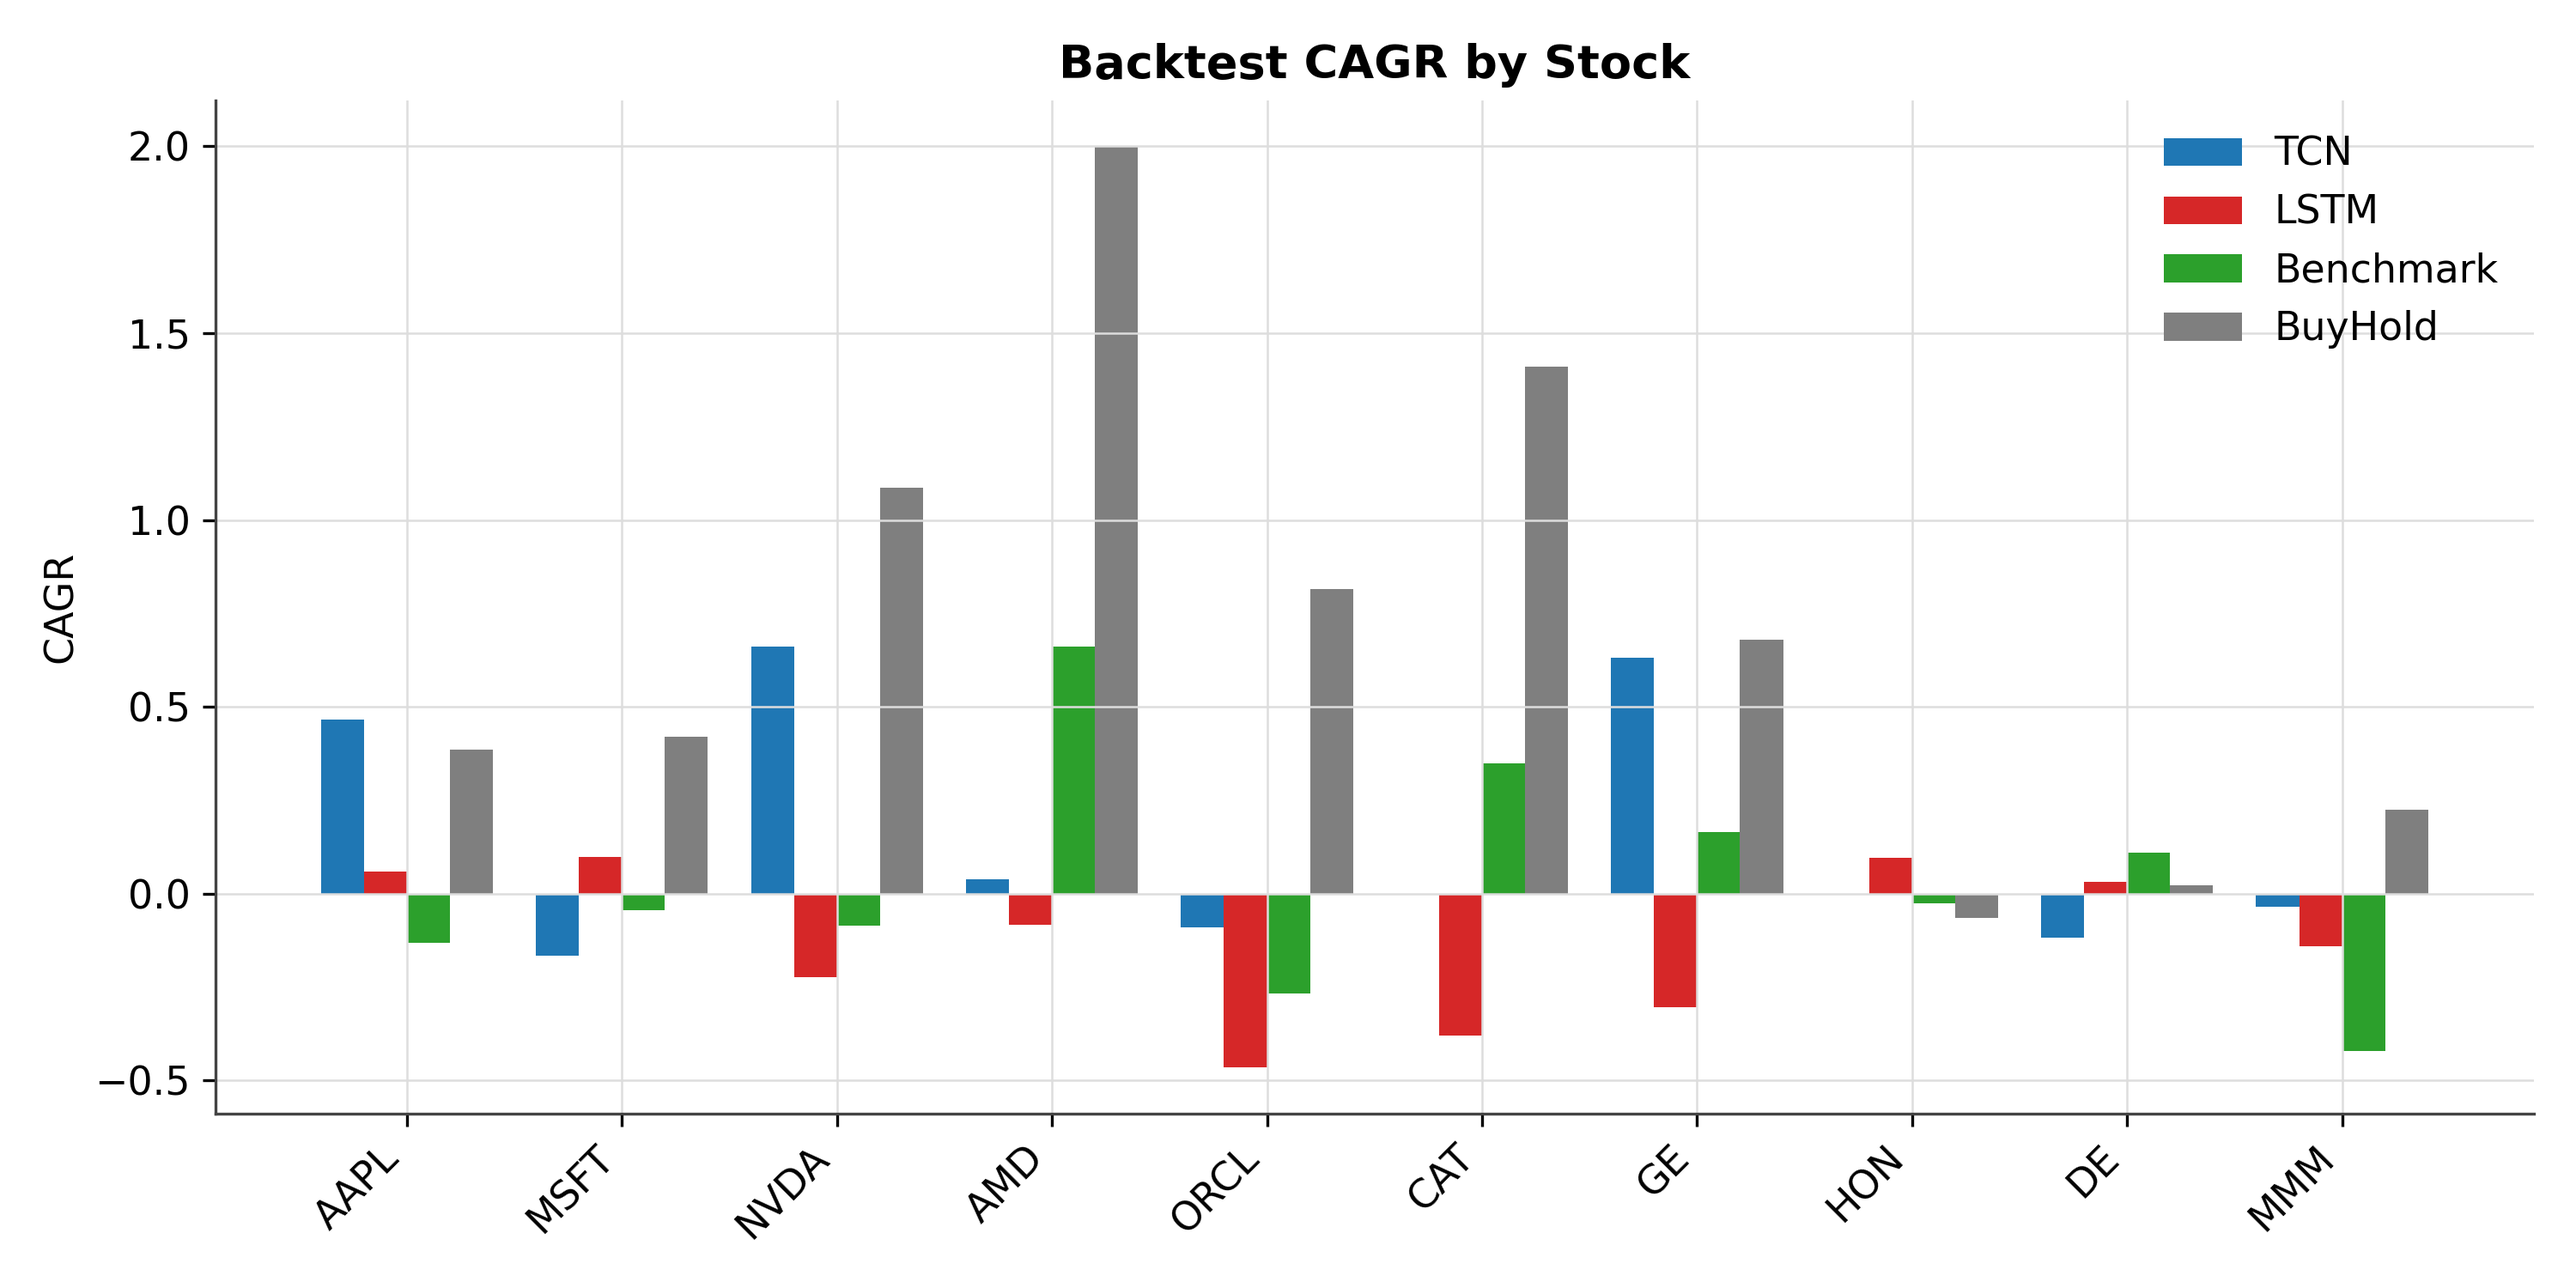
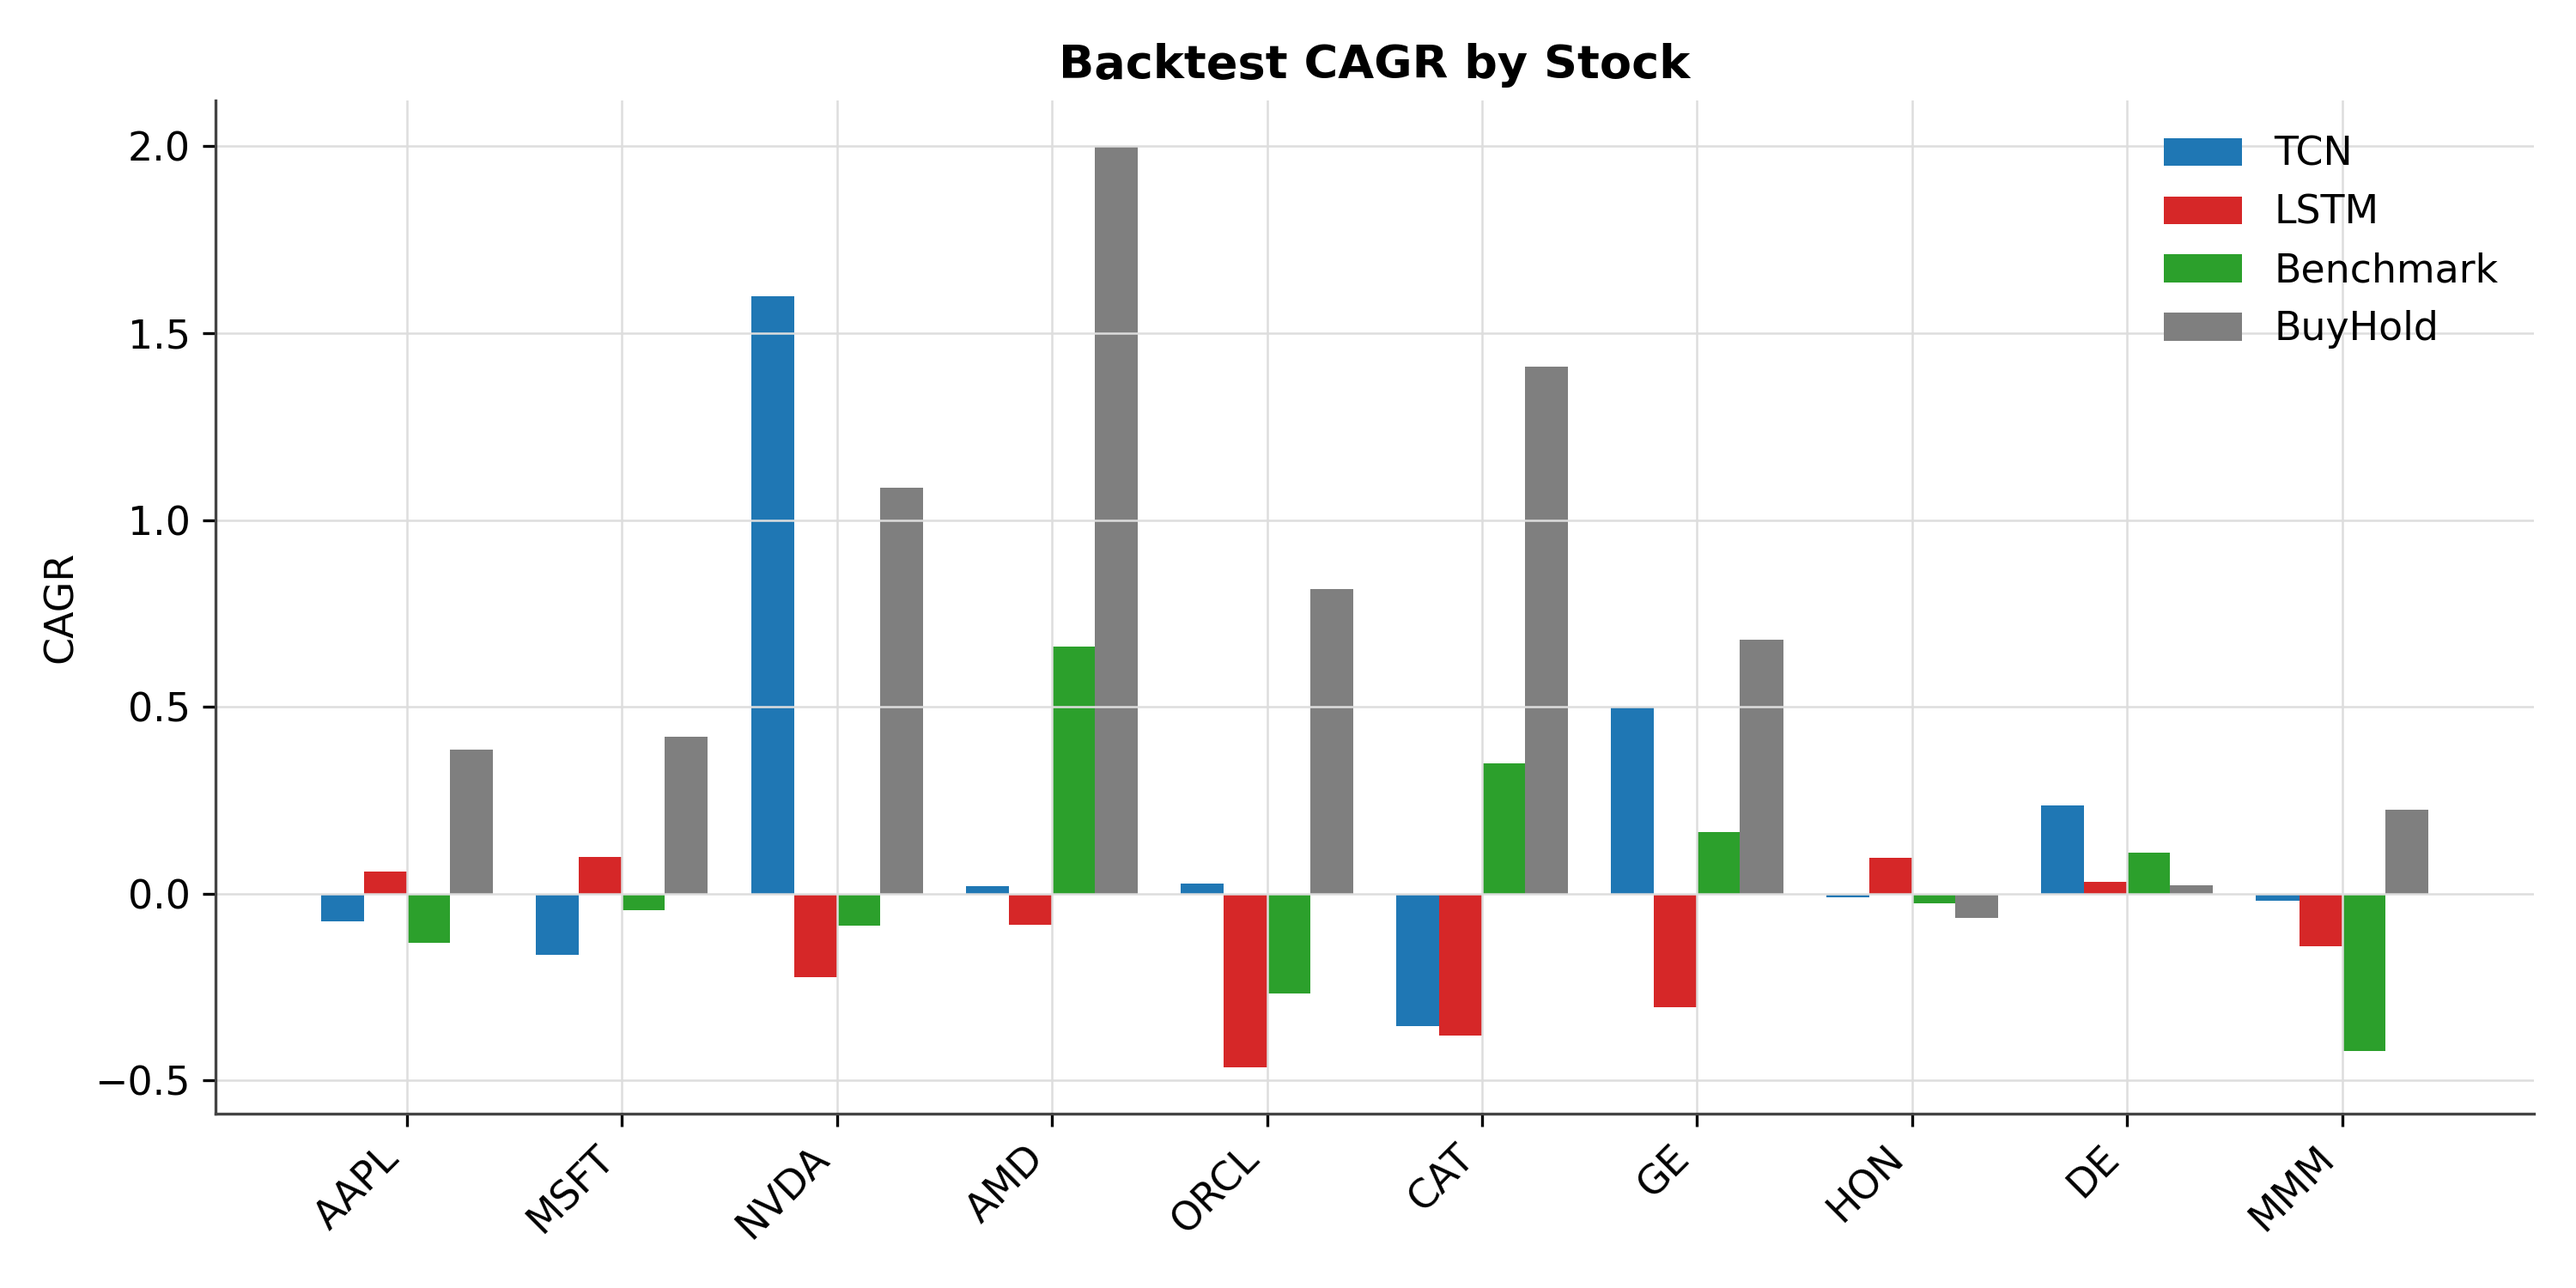
Update results from full 3-seed run (all 10 stocks)

diff --git a/results/thesis_numbers_summary.md b/results/thesis_numbers_summary.md
@@ -56,59 +56,59 @@ _Auto-generated by `run_pipeline.py`. All metrics on the 15% chronological test 
 
 | Symbol   | Model   |    MAE |    MSE |   RMSE |   Pred_Std |   Directional_Acc |
 |:---------|:--------|-------:|-------:|-------:|-----------:|------------------:|
-| AAPL     | TCN     | 0.0347 | 0.0022 | 0.0465 |     0.0077 |            0.436  |
+| AAPL     | TCN     | 0.0356 | 0.0023 | 0.0477 |     0.0074 |            0.4477 |
 | AAPL     | LSTM    | 0.0353 | 0.0025 | 0.0504 |     0.0134 |            0.4942 |
-| MSFT     | TCN     | 0.0276 | 0.0013 | 0.0358 |     0.0039 |            0.3547 |
+| MSFT     | TCN     | 0.0275 | 0.0013 | 0.0357 |     0.0043 |            0.3605 |
 | MSFT     | LSTM    | 0.0248 | 0.0012 | 0.0344 |     0.0054 |            0.4128 |
-| NVDA     | TCN     | 0.04   | 0.0029 | 0.0536 |     0.0036 |            0.6744 |
+| NVDA     | TCN     | 0.0405 | 0.0029 | 0.0542 |     0.0035 |            0.6279 |
 | NVDA     | LSTM    | 0.0451 | 0.0034 | 0.0582 |     0.0149 |            0.4535 |
-| AMD      | TCN     | 0.0741 | 0.0102 | 0.1009 |     0.0151 |            0.5116 |
+| AMD      | TCN     | 0.0728 | 0.0099 | 0.0997 |     0.013  |            0.5058 |
 | AMD      | LSTM    | 0.0745 | 0.0111 | 0.1053 |     0.0116 |            0.5291 |
-| ORCL     | TCN     | 0.0621 | 0.0077 | 0.0878 |     0.0035 |            0.4884 |
+| ORCL     | TCN     | 0.0619 | 0.0077 | 0.0877 |     0.0026 |            0.5872 |
 | ORCL     | LSTM    | 0.0636 | 0.0079 | 0.0887 |     0.0257 |            0.4535 |
-| CAT      | TCN     | 0.0378 | 0.0022 | 0.0471 |     0.0068 |            0.4884 |
+| CAT      | TCN     | 0.0392 | 0.0024 | 0.0488 |     0.0074 |            0.436  |
 | CAT      | LSTM    | 0.0453 | 0.0034 | 0.0584 |     0.0041 |            0.4593 |
-| GE       | TCN     | 0.03   | 0.0015 | 0.0392 |     0.0052 |            0.4942 |
+| GE       | TCN     | 0.0297 | 0.0015 | 0.0386 |     0.0047 |            0.5465 |
 | GE       | LSTM    | 0.0418 | 0.0024 | 0.0491 |     0.0074 |            0.4128 |
-| HON      | TCN     | 0.0228 | 0.001  | 0.0315 |     0.0022 |            0.5872 |
+| HON      | TCN     | 0.0228 | 0.001  | 0.0315 |     0.0022 |            0.564  |
 | HON      | LSTM    | 0.024  | 0.0011 | 0.0332 |     0.0024 |            0.5174 |
-| DE       | TCN     | 0.0226 | 0.0009 | 0.0306 |     0.0075 |            0.5349 |
+| DE       | TCN     | 0.0227 | 0.0009 | 0.0305 |     0.0095 |            0.4884 |
 | DE       | LSTM    | 0.0242 | 0.001  | 0.0314 |     0.0113 |            0.4709 |
-| MMM      | TCN     | 0.0283 | 0.0014 | 0.038  |     0.0042 |            0.5    |
+| MMM      | TCN     | 0.0283 | 0.0014 | 0.038  |     0.0043 |            0.4942 |
 | MMM      | LSTM    | 0.0281 | 0.0014 | 0.0376 |     0.0073 |            0.5233 |
 
 ### Classification metrics — overall & per-class accuracy / F1
 
 | Symbol   | Model     |   Overall_Acc |   Buy_Acc |   Buy_F1 |   Hold_Acc |   Hold_F1 |   Avoid_Acc |   Avoid_F1 |
 |:---------|:----------|--------------:|----------:|---------:|-----------:|----------:|------------:|-----------:|
-| AAPL     | TCN       |        0.3198 |    0.4409 |   0.4767 |     0.3684 |    0.1429 |      0.1167 |     0.1892 |
+| AAPL     | TCN       |        0.3314 |    0.3871 |   0.439  |     0.1053 |    0.0851 |      0.3167 |     0.2857 |
 | AAPL     | LSTM      |        0.2151 |    0      |   0      |     0.8947 |    0.2297 |      0.3333 |     0.3883 |
 | AAPL     | Benchmark |        0.2035 |    0.2366 |   0.3188 |     0.3158 |    0.096  |      0.1167 |     0.1728 |
-| MSFT     | TCN       |        0.1628 |    0      |   0      |     0.3824 |    0.2063 |      0.3409 |     0.2419 |
+| MSFT     | TCN       |        0.1686 |    0      |   0      |     0.4118 |    0.2205 |      0.3409 |     0.2439 |
 | MSFT     | LSTM      |        0.2384 |    0.0426 |   0.0808 |     1      |    0.3434 |      0.0682 |     0.1277 |
 | MSFT     | Benchmark |        0.2733 |    0.0532 |   0.0901 |     0.8529 |    0.3648 |      0.2955 |     0.3514 |
-| NVDA     | TCN       |        0.4244 |    0.6321 |   0.6233 |     0.4286 |    0.1558 |      0      |     0      |
+| NVDA     | TCN       |        0.4012 |    0.5283 |   0.5895 |     0.4286 |    0.1333 |      0.1346 |     0.2188 |
 | NVDA     | LSTM      |        0.3372 |    0.2736 |   0.3946 |     0.0714 |    0.0435 |      0.5385 |     0.3709 |
 | NVDA     | Benchmark |        0.2558 |    0.2547 |   0.3624 |     0.7857 |    0.1803 |      0.1154 |     0.1644 |
-| AMD      | TCN       |        0.4593 |    0.6916 |   0.6245 |     0.1818 |    0.2    |      0.0556 |     0.069  |
+| AMD      | TCN       |        0.4535 |    0.6822 |   0.6213 |     0.2727 |    0.2069 |      0.037  |     0.05   |
 | AMD      | LSTM      |        0.4826 |    0.5327 |   0.5846 |     0.1818 |    0.1538 |      0.4444 |     0.3902 |
 | AMD      | Benchmark |        0.2442 |    0.2617 |   0.3889 |     0.5455 |    0.0992 |      0.1481 |     0.2025 |
-| ORCL     | TCN       |        0.1105 |    0      |   0      |     0.6    |    0.0779 |      0.1912 |     0.2708 |
+| ORCL     | TCN       |        0.0988 |    0      |   0      |     0.6    |    0.0759 |      0.1618 |     0.2391 |
 | ORCL     | LSTM      |        0.3198 |    0.2553 |   0.3556 |     0      |    0      |      0.4559 |     0.3713 |
 | ORCL     | Benchmark |        0.2616 |    0.2021 |   0.314  |     1      |    0.1587 |      0.2353 |     0.3299 |
-| CAT      | TCN       |        0.2267 |    0.287  |   0.3952 |     0.2667 |    0.0748 |      0.0476 |     0.0571 |
+| CAT      | TCN       |        0.1221 |    0      |   0      |     0.7333 |    0.1746 |      0.2381 |     0.1942 |
 | CAT      | LSTM      |        0.3779 |    0.287  |   0.4177 |     0.2    |    0.1429 |      0.6905 |     0.4028 |
 | CAT      | Benchmark |        0.1686 |    0.1391 |   0.2207 |     0.6    |    0.1216 |      0.0952 |     0.1569 |
-| GE       | TCN       |        0.2849 |    0.2842 |   0.4286 |     0.8696 |    0.2516 |      0.037  |     0.0678 |
+| GE       | TCN       |        0.3256 |    0.3789 |   0.5035 |     0.8696 |    0.2721 |      0      |     0      |
 | GE       | LSTM      |        0.3081 |    0.0737 |   0.1333 |     0      |    0      |      0.8519 |     0.46   |
 | GE       | Benchmark |        0.3023 |    0.3158 |   0.4317 |     0.5652 |    0.1926 |      0.1667 |     0.2571 |
-| HON      | TCN       |        0.157  |    0      |   0      |     1      |    0.2714 |      0      |     0      |
+| HON      | TCN       |        0.1628 |    0.0141 |   0.0278 |     1      |    0.2727 |      0      |     0      |
 | HON      | LSTM      |        0.4535 |    0      |   0      |     0.2222 |    0.25   |      0.973  |     0.64   |
 | HON      | Benchmark |        0.2849 |    0.2817 |   0.3883 |     0.3333 |    0.1607 |      0.2703 |     0.3101 |
-| DE       | TCN       |        0.1802 |    0      |   0      |     1      |    0.2974 |      0.029  |     0.0533 |
+| DE       | TCN       |        0.2674 |    0.2973 |   0.3761 |     0.7931 |    0.293  |      0.0145 |     0.0286 |
 | DE       | LSTM      |        0.2849 |    0.2162 |   0.2602 |     0.069  |    0.0571 |      0.4493 |     0.4106 |
 | DE       | Benchmark |        0.3081 |    0.2432 |   0.3429 |     0.5172 |    0.2459 |      0.2899 |     0.3419 |
-| MMM      | TCN       |        0.3256 |    0.1358 |   0.2268 |     0.5    |    0.1895 |      0.4932 |     0.4737 |
+| MMM      | TCN       |        0.1802 |    0      |   0      |     0.7778 |    0.1806 |      0.2329 |     0.3148 |
 | MMM      | LSTM      |        0.1919 |    0.0864 |   0.1522 |     0.6667 |    0.1622 |      0.1918 |     0.2692 |
 | MMM      | Benchmark |        0.2151 |    0.2593 |   0.2819 |     0.6667 |    0.233  |      0.0548 |     0.087  |
 
@@ -116,43 +116,43 @@ _Auto-generated by `run_pipeline.py`. All metrics on the 15% chronological test 
 
 | Symbol   | Model     |    CAGR |   Sharpe |   MaxDrawdown |
 |:---------|:----------|--------:|---------:|--------------:|
-| AAPL     | TCN       |  0.4658 |   1.4963 |        0.0829 |
+| AAPL     | TCN       | -0.0745 |  -0.1257 |        0.2614 |
 | AAPL     | LSTM      |  0.0583 |   0.3452 |        0.1891 |
 | AAPL     | Benchmark | -0.1304 |  -0.8577 |        0.1775 |
 | AAPL     | BuyHold   |  0.3858 |   1.1044 |        0.2299 |
-| MSFT     | TCN       | -0.1661 |  -1.6451 |        0.1638 |
+| MSFT     | TCN       | -0.1638 |  -1.6188 |        0.1638 |
 | MSFT     | LSTM      |  0.0975 |   1.6393 |        0.0154 |
 | MSFT     | Benchmark | -0.0449 |  -0.3516 |        0.1245 |
 | MSFT     | BuyHold   |  0.4212 |   1.5667 |        0.1274 |
-| NVDA     | TCN       |  0.6623 |   1.4484 |        0.1524 |
+| NVDA     | TCN       |  1.5996 |   2.79   |        0.1524 |
 | NVDA     | LSTM      | -0.2222 |  -0.4185 |        0.3812 |
 | NVDA     | Benchmark | -0.0855 |  -0.0659 |        0.2867 |
 | NVDA     | BuyHold   |  1.087  |   1.8975 |        0.1524 |
-| AMD      | TCN       |  0.0386 |   0.3878 |        0.5012 |
+| AMD      | TCN       |  0.0213 |   0.3568 |        0.4974 |
 | AMD      | LSTM      | -0.0825 |   0.2171 |        0.5758 |
 | AMD      | Benchmark |  0.6605 |   1.8124 |        0.1262 |
 | AMD      | BuyHold   |  2.0007 |   1.9667 |        0.2404 |
-| ORCL     | TCN       | -0.0898 |  -0.536  |        0.089  |
+| ORCL     | TCN       |  0.0274 |   0.2757 |        0.0745 |
 | ORCL     | LSTM      | -0.4652 |  -1.3353 |        0.4792 |
 | ORCL     | Benchmark | -0.268  |  -0.2919 |        0.4323 |
 | ORCL     | BuyHold   |  0.8164 |   1.2191 |        0.3989 |
-| CAT      | TCN       | -0.0026 |   0.0948 |        0.1919 |
+| CAT      | TCN       | -0.3531 |  -2.8874 |        0.2582 |
 | CAT      | LSTM      | -0.3785 |  -1.3517 |        0.3595 |
 | CAT      | Benchmark |  0.3492 |   1.8736 |        0.0661 |
 | CAT      | BuyHold   |  1.4101 |   2.8144 |        0.1814 |
-| GE       | TCN       |  0.6314 |   4.0344 |        0.0276 |
+| GE       | TCN       |  0.5005 |   2.9905 |        0.0776 |
 | GE       | LSTM      | -0.3035 |  -1.1685 |        0.3514 |
 | GE       | Benchmark |  0.1653 |   1.1155 |        0.0846 |
 | GE       | BuyHold   |  0.6804 |   1.8228 |        0.165  |
-| HON      | TCN       |  0      |   0      |        0      |
+| HON      | TCN       | -0.0103 |  -1.214  |        0.007  |
 | HON      | LSTM      |  0.0951 |   0.4876 |        0.2595 |
 | HON      | Benchmark | -0.0246 |  -0.1413 |        0.1033 |
 | HON      | BuyHold   | -0.0648 |  -0.1175 |        0.1603 |
-| DE       | TCN       | -0.118  |  -0.8767 |        0.1168 |
+| DE       | TCN       |  0.2353 |   1.935  |        0.0514 |
 | DE       | LSTM      |  0.0326 |   0.2523 |        0.157  |
 | DE       | Benchmark |  0.1091 |   0.5669 |        0.1425 |
 | DE       | BuyHold   |  0.023  |   0.2206 |        0.1683 |
-| MMM      | TCN       | -0.0341 |  -0.1079 |        0.1457 |
+| MMM      | TCN       | -0.0193 |  -0.1987 |        0.0698 |
 | MMM      | LSTM      | -0.1401 |  -0.9409 |        0.1075 |
 | MMM      | Benchmark | -0.4208 |  -2.5562 |        0.3364 |
 | MMM      | BuyHold   |  0.226  |   0.7995 |        0.1467 |
@@ -166,7 +166,7 @@ _Auto-generated by `run_pipeline.py`. All metrics on the 15% chronological test 
 | Benchmark | 0.5536            |  0.031  |   0.1104 |        0.188  |
 | BuyHold   |                   |  0.6986 |   1.3294 |        0.1971 |
 | LSTM      | 0.4727            | -0.1309 |  -0.2273 |        0.2876 |
-| TCN       | 0.5070            |  0.1387 |   0.4296 |        0.1471 |
+| TCN       | 0.5058            |  0.1763 |   0.2303 |        0.1613 |
 
 **By sector:**
 
@@ -175,11 +175,11 @@ _Auto-generated by `run_pipeline.py`. All metrics on the 15% chronological test 
 | IT         | Benchmark | 0.5575            |  0.0263 |   0.0491 |
 | IT         | BuyHold   |                   |  0.9422 |   1.5509 |
 | IT         | LSTM      | 0.4686            | -0.1228 |   0.0896 |
-| IT         | TCN       | 0.4930            |  0.1821 |   0.2303 |
+| IT         | TCN       | 0.5058            |  0.282  |   0.3356 |
 | Industrial | Benchmark | 0.5496            |  0.0356 |   0.1717 |
 | Industrial | BuyHold   |                   |  0.4549 |   1.1079 |
 | Industrial | LSTM      | 0.4767            | -0.1389 |  -0.5443 |
-| Industrial | TCN       | 0.5209            |  0.0953 |   0.6289 |
+| Industrial | TCN       | 0.5058            |  0.0706 |   0.1251 |
 
 ## Sensitivity — decision threshold
 
@@ -197,18 +197,18 @@ _Auto-generated by `run_pipeline.py`. All metrics on the 15% chronological test 
 | LSTM    | vol(1.07%)  |        0.2645 |  -0.7275 | -0.2331 |
 | LSTM    | vol(1.80%)  |        0.3837 |   0.075  | -0.1466 |
 | LSTM    | vol(1.82%)  |        0.3953 |   1.1186 |  0.258  |
-| TCN     | 0.25%       |        0.3355 |   0.8742 |  0.2676 |
-| TCN     | 0.50%       |        0.2651 |   0.4296 |  0.1387 |
-| TCN     | 1.00%       |        0.2802 |   0.0728 |  0.1178 |
+| TCN     | 0.25%       |        0.3174 |   0.4545 |  0.1283 |
+| TCN     | 0.50%       |        0.2512 |   0.2303 |  0.1763 |
+| TCN     | 1.00%       |        0.2715 |  -0.1109 |  0.03   |
 | TCN     | vol(0.70%)  |        0.2209 |   0      |  0      |
-| TCN     | vol(0.87%)  |        0.1919 |  -1.4644 | -0.1269 |
-| TCN     | vol(0.92%)  |        0.2849 |   1.4211 |  0.3871 |
-| TCN     | vol(0.95%)  |        0.2267 |  -0.0414 | -0.0043 |
+| TCN     | vol(0.87%)  |        0.1919 |  -2.3712 | -0.1837 |
+| TCN     | vol(0.92%)  |        0.2849 |   1.4855 |  0.2752 |
+| TCN     | vol(0.95%)  |        0.2093 |   0      |  0      |
 | TCN     | vol(1.02%)  |        0.314  |   0      |  0      |
-| TCN     | vol(1.05%)  |        0.2965 |   2.7725 |  0.2165 |
-| TCN     | vol(1.07%)  |        0.1337 |  -1.8186 | -0.1206 |
-| TCN     | vol(1.80%)  |        0.3779 |   0.4554 |  0.0945 |
-| TCN     | vol(1.82%)  |        0.2907 |   0.7962 |  0.072  |
+| TCN     | vol(1.05%)  |        0.3256 |   3.2755 |  0.2815 |
+| TCN     | vol(1.07%)  |        0.1337 |  -1.8696 | -0.1398 |
+| TCN     | vol(1.80%)  |        0.3721 |   0.4461 |  0.0885 |
+| TCN     | vol(1.82%)  |        0.2965 |   1.1111 |  0.0958 |
 
 ## Sensitivity — lookback window
 
@@ -217,6 +217,6 @@ _Auto-generated by `run_pipeline.py`. All metrics on the 15% chronological test 
 | LSTM    |         30 | 0.055  |            0.5028 |   0.0779 |
 | LSTM    |         60 | 0.0547 |            0.4727 |  -0.2273 |
 | LSTM    |         90 | 0.0527 |            0.4784 |  -0.5222 |
-| TCN     |         30 | 0.0521 |            0.5136 |   0.7468 |
-| TCN     |         60 | 0.0507 |            0.5297 |   0.3274 |
-| TCN     |         90 | 0.048  |            0.5341 |   0.5372 |
+| TCN     |         30 | 0.0523 |            0.521  |   0.665  |
+| TCN     |         60 | 0.0501 |            0.5256 |   0.3456 |
+| TCN     |         90 | 0.0484 |            0.5114 |   0.2267 |
